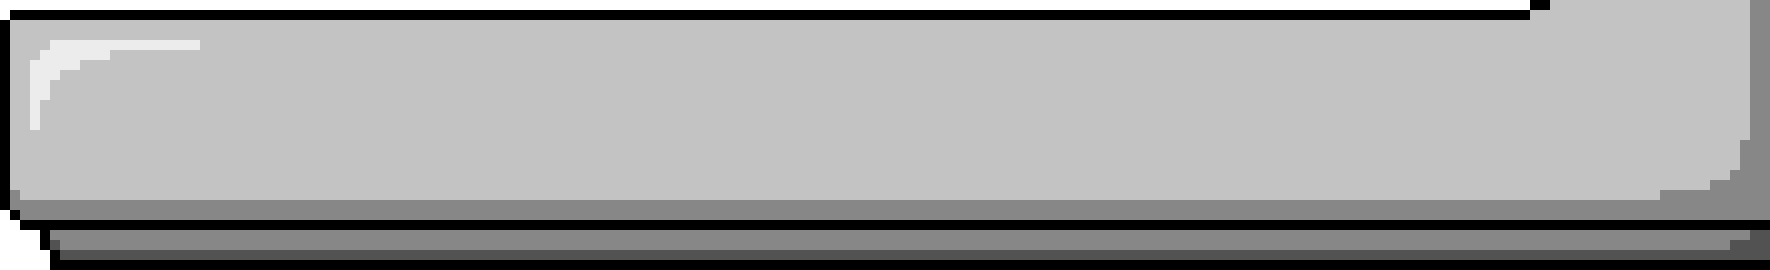
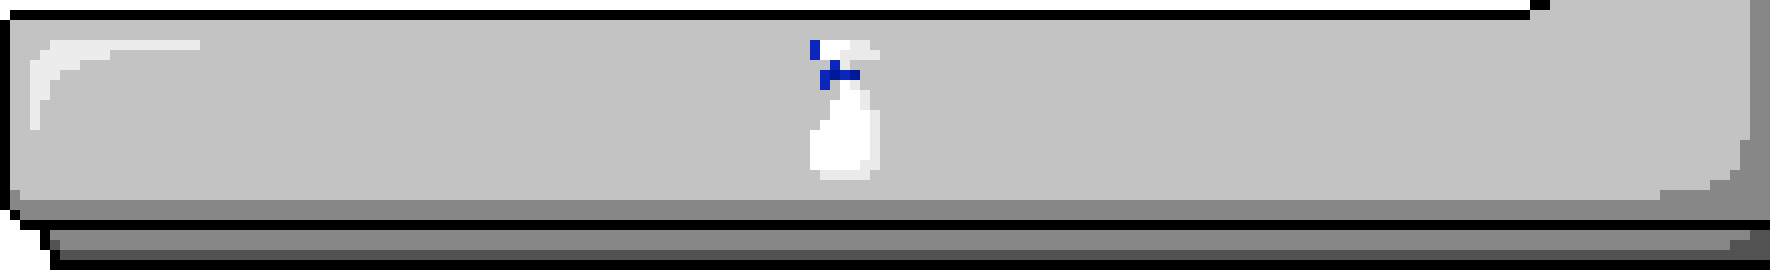
Update

Changed region(s): [[0.435, 0.1481, 0.4972, 0.6815]]

diff --git a/CovidCashier.java b/CovidCashier.java
@@ -47,7 +47,7 @@ public final class CovidCashier  {
 		initializeFrame();
 
 		// new SplashScreen();
-		//new PlayerSelect();
+		new PlayerSelect();
 		// new CashRun('M', "MG");
 		//new FridgeTiles('M', "MG");
 		//new Disinfection();
